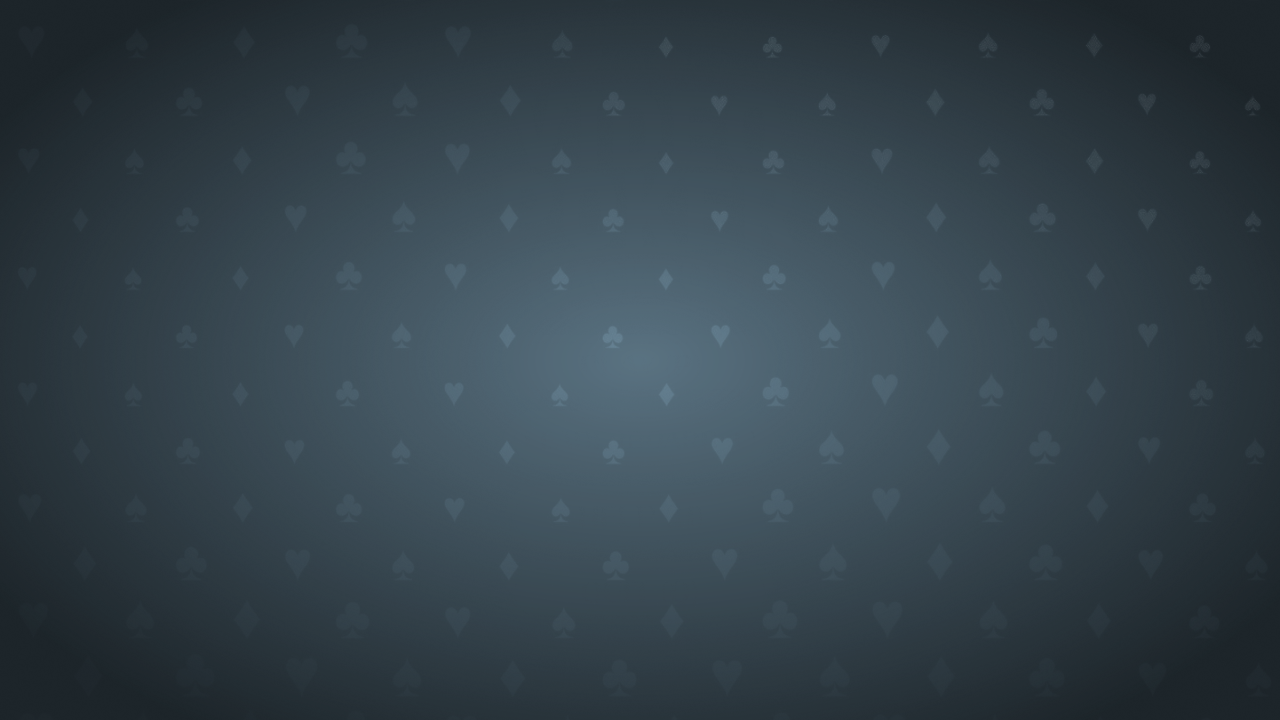
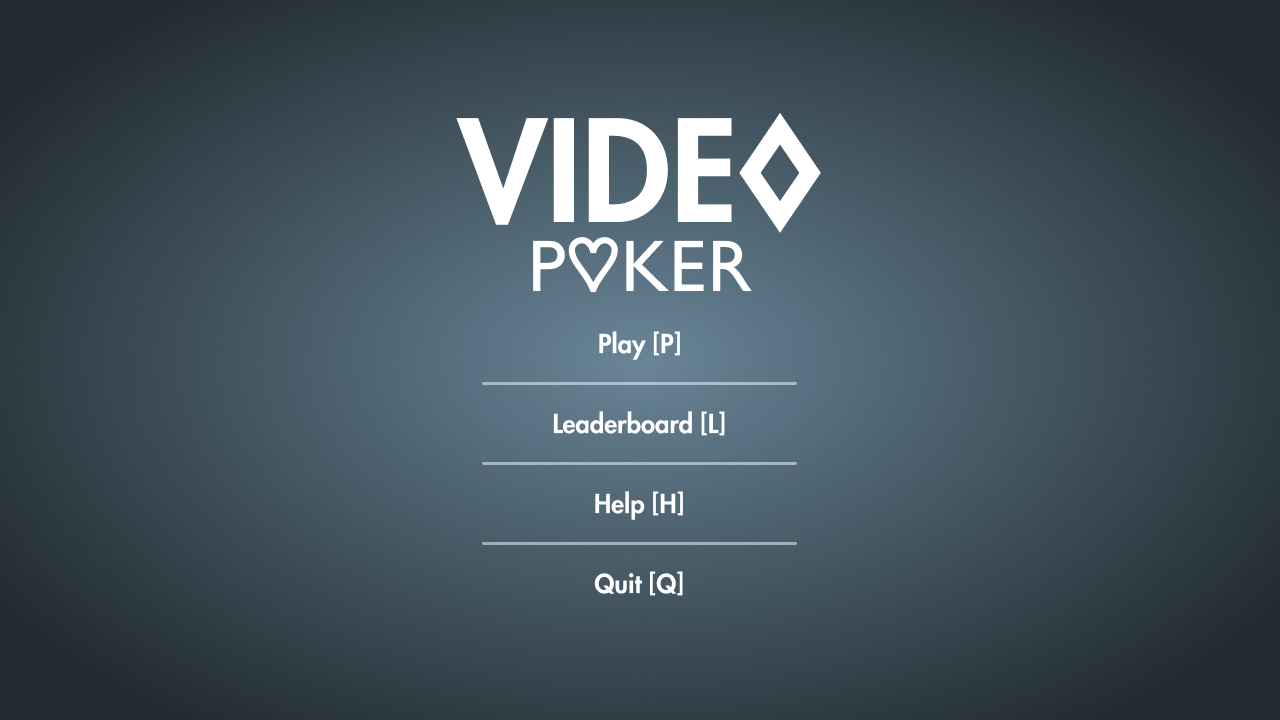
Changed the main UI.

diff --git a/CPTtools.java b/CPTtools.java
@@ -6,27 +6,12 @@ import java.awt.Font;
 public class CPTtools{
 	// main screen
 	public static void MainScreen(Console con){
-		// drawing main screen
-		int intXLogo = -250;
-		int intXButtons = 1364;
-		
+		// drawing main screen	
+		con.repaint();	
 		BufferedImage imgMain = con.loadImage("Cover.png");
-		BufferedImage imgLogo = con.loadImage("Logo.png");
-		BufferedImage imgButtons = con.loadImage("Buttons.png");
-		while(intXLogo <= 250){			
-			con.drawImage(imgMain, 0, 0);
-			con.println("");
-			con.drawImage(imgLogo, intXLogo, 247);
-			con.drawImage(imgButtons, intXButtons, 169);
-			intXLogo = intXLogo + 10;
-			intXButtons = intXButtons - 10;
-			
-			// waiting for 17 ms before looping
-			con.sleep(8);
-			
-		}
-
-		
+		con.drawImage(imgMain, 0, 0);
+		con.repaint();
+				
 		// con.println("Video Poker");
 		// con.println("Play (P)");
 		// con.println("View Leaderboard (L)");
@@ -36,19 +21,42 @@ public class CPTtools{
 		
 		// reacting to different keys being clicked
 		if(chrInputMain == 'q' || chrInputMain == 'Q'){
-			con.closeConsole();
+			BufferedImage imgQuit = con.loadImage("Quit.png");
+			con.clear();
+			con.drawImage(imgQuit, 0, 0);
+			con.repaint();
+			
+			char chrInputQuit = con.getChar();
+			if(chrInputQuit == 'y' || chrInputQuit == 'Y'){
+				con.closeConsole();
+			}else{
+				con.drawImage(imgMain, 0, 0);
+				con.repaint();
+				MainScreen(con);
+			}
 		}else if(chrInputMain == 's' || chrInputMain == 'S'){
 			con.clear();
-			con.setDrawColor(Color.BLACK);
-			con.fillRect(0,0,1280,720);
-			con.println("What's the difference between a large pizza and a poker player?");
-			con.println("A large pizza can feed a family of four, a poker player can't.");
-			con.sleep(5000);
-			MainScreen(con);
+			BufferedImage imgBG = con.loadImage("BG.png");
+			BufferedImage imgJoke = con.loadImage("Joke.png");
+			con.drawImage(imgBG, 0, 0);
+			con.drawImage(imgJoke, 84, 199);
+			con.repaint();
+			char chrInputSecret = con.getChar();
+			if(chrInputSecret == 'r' || chrInputSecret == 'R'){
+				con.drawImage(imgMain, 0, 0);
+				con.repaint();
+				MainScreen(con);
+			}else{
+				con.drawImage(imgMain, 0, 0);
+				con.repaint();
+				MainScreen(con);
+			}
+
 		}else if(chrInputMain == 'p' || chrInputMain == 'P'){
 			con.clear();
-			con.setDrawColor(Color.BLACK);
-			con.fillRect(0,0,1280,720);
+			BufferedImage imgBG = con.loadImage("BG.png");
+			con.drawImage(imgBG, 0, 0);
+			
 			
 			// ask for username
 			String strUserName;
